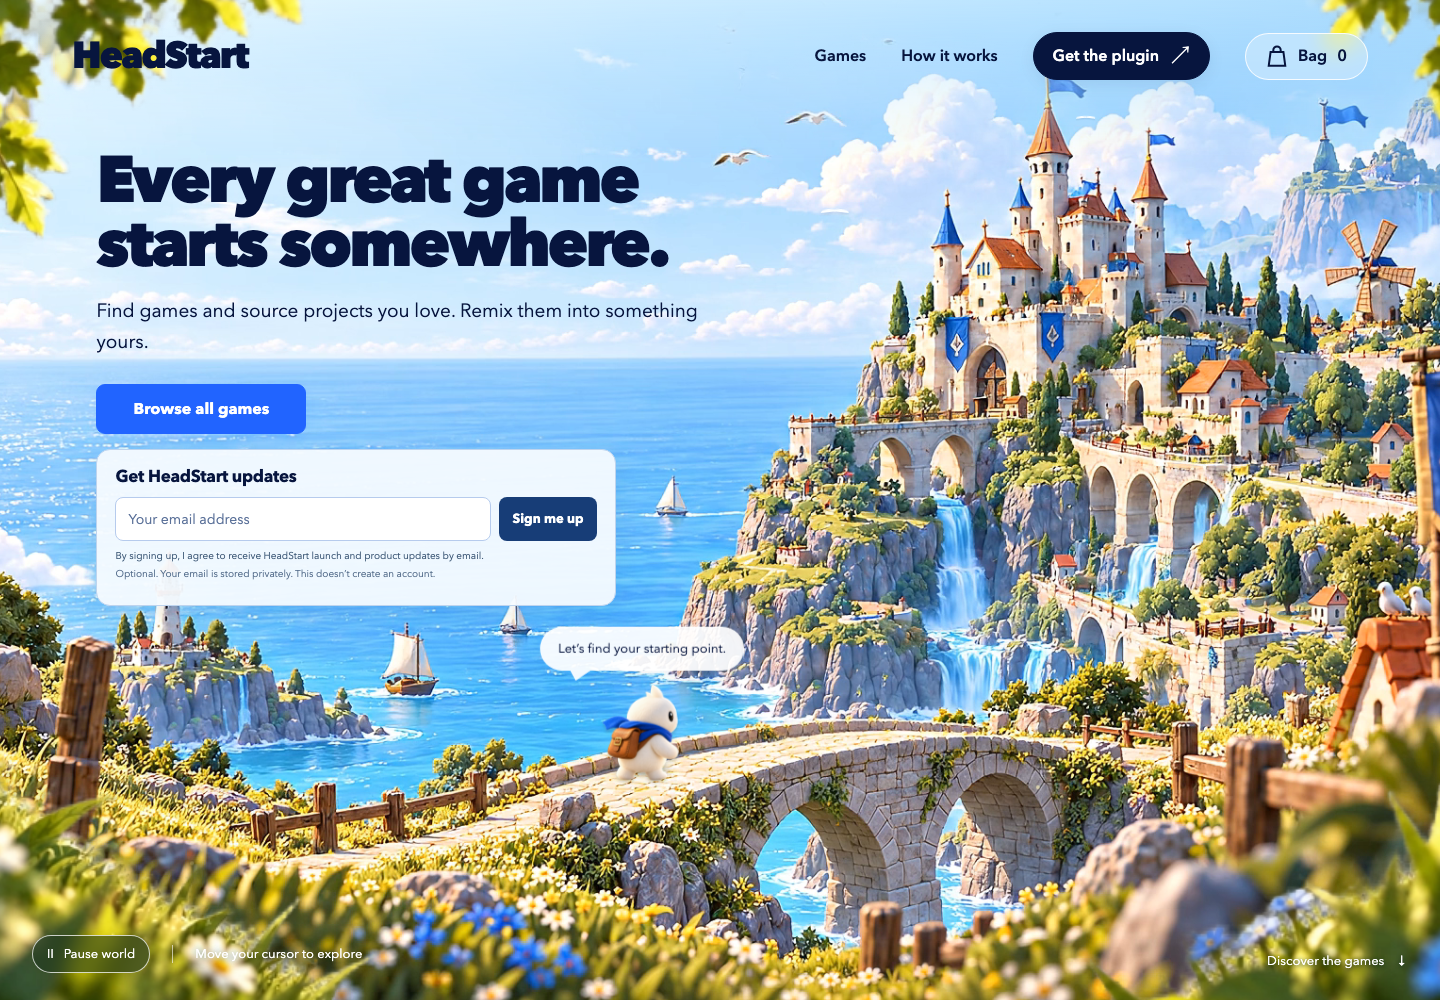
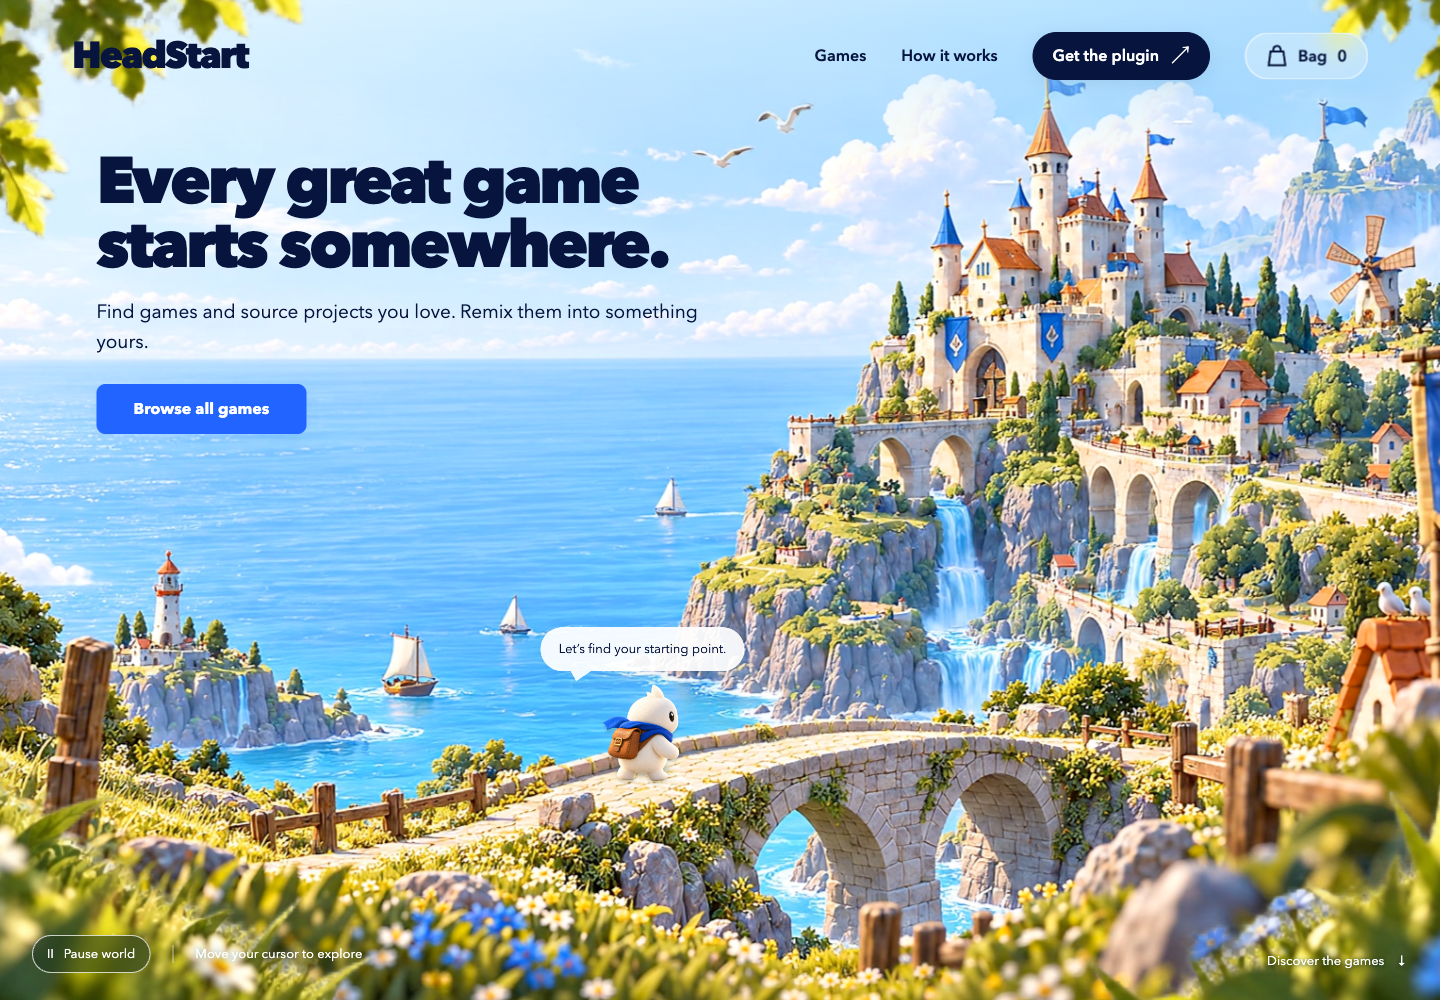
Record hero and remembered email review

diff --git a/docs/reviews/hero-discovery-cleanup/REVIEW.md b/docs/reviews/hero-discovery-cleanup/REVIEW.md
@@ -1,0 +1,66 @@
+# Hero discovery cleanup and remembered email — independent review
+
+## Review identity and revision
+
+- Issue contract: `docs/planning/hero-discovery-cleanup.md`
+- Coder/author: `/root/hero_search_author`
+- Critical reviewer: `/root/hero_email_reviewer` (independent from the author)
+- Reviewed implementation source revision: `914e0a0` (`Harden combined hero and demo email flow`)
+- Author handoff revision: `508b91c`
+- Repository HEAD during final checks: `a5587b936857201ddaae39d4586c869608a9503e` (later deployment-documentation commits do not alter the reviewed implementation files)
+
+The reviewer inspected the implementation and tests rather than relying on the author summary. The source hashes at final review were:
+
[7 lines of base64/hex data omitted]
+
+Unrelated supplied media, walkthrough work and the root README remained outside this review.
+
+## Acceptance coverage
+
+| Acceptance criterion | Independent evidence | Result |
+| --- | --- | --- |
+| Remove the nonfunctional hero prompt, mapping, idea strip and edit path | Actual HTML/JS/CSS inspection and focused static regression test; the rendered hero contains only `Browse all games` as its primary discovery CTA and has no homepage signup | PASS |
+| Browse CTA reaches the real catalog accessibly | Browser activation focused `#library-title`; after smooth scrolling it was 62 px from the viewport top | PASS |
+| Real catalog search and reset remain functional | Browser query `zzzz-no-match` produced `0 of 69 projects`, the visible empty state and zero cards; reset restored `69 of 69 projects` and 69 cards | PASS |
+| Bag, remix brief, Gauntlet export and Astra continuation remain | Browser selected CityMaker, Hollowflux and Kyoto Higashiyama, persisted the three IDs and the brief `A coastal builder with racing and mysterious ruins.`, regenerated the Gauntlet prompt, and enabled Download and Continue with Astra; formatter and Astra unit suites also passed | PASS |
+| Remember only after a successful demo save | Browser-mocked successful `/api/subscribe` stored normalized `reviewer@test.example` under `headstart.remembered-email.v1`; a server rejection left storage empty, retained input, kept the form visible and kept launch hidden | PASS |
+| Later demos bypass the prompt without URL rewriting | After success, a second demo click reached the normal-link path without the signup listener preventing it, left the dialog closed, and retained the exact `https://tideglass-drowned-vein.openai.chatgpt.site/` URL | PASS |
+| Remembered state is visible and can be forgotten | Reload displayed the address plus “isn’t an account or verified address” in the footer; Forget email removed the record, hid the panel and announced the change through its live region | PASS |
+| Failure, timeout, corrupt and blocked storage fail safely | Live rejection and corrupt-record reload were exercised in Chrome; corrupt data did not unlock demos. Focused client tests cover timeout and unavailable storage, including current-page use after a confirmed server save without falsely claiming cross-reload persistence | PASS |
+| No implied marketing consent | The real fresh dialog request sent `updates: false`; tests independently cover `updates: true` only after the checkbox is explicitly selected. No homepage updates form remains | PASS |
+| Responsive C4/C4b presentation and accessibility | Fresh current captures at 1440×1000, 390×844 and 320×844 were visually inspected. Browser measurements gave `scrollWidth === innerWidth` at 390 and 320. Hero copy, CTA, controls, companion, bridge, header and art crop do not overlap or clip; the 320 heading wraps intentionally. Focus styling and motion control remain present | PASS |
+| No page console or build errors | Puppeteer evaluation output reported no console errors during the exercised states; syntax, test, build and diff checks passed | PASS |
+
+## Commands and outcomes
+
+- `node --test tools/site/hero-cleanup.test.mjs tools/signup/client.test.mjs tools/signup/subscribe.test.mjs HeadStart-Starter-Package/site/dist/astra-action.test.mjs` — **26/26 passed**.
+- `node tools/bag-prompt/test_gauntlet_prompt.js` — **6/6 passed**.
+- `node --check` for `app.js`, `signup.js`, and `astra-action.js` — passed.
+- `node build.mjs` from `HeadStart-Starter-Package/site/dist` — passed with no output or error.
+- `git diff --check` — passed.
[1 lines of base64/hex data omitted]
+
+## Visual evidence
+
[3 lines of base64/hex data omitted]
+- `evidence/footer-remembered.png` — a live remembered-email footer state showing the normalized address, unverified-language boundary and visible Forget email action.
+
+The captures preserve the selected C4/C4b living-world hierarchy and C5 responsive intent. The missing hero form and homepage signup are intentional current-user deviations. The simplified desktop hero gains useful open space; on mobile the header remains a compact two-row layout, the CTA is dominant, and the castle/bridge/companion remain legible below it. No blocking visual deviation was found.
+
+## Review rounds and findings
+
+The first inspection was invalidated when concurrent Astra/footer work created conflicts in the shared checkout. Review stopped immediately without editing product files. After the author reconciled at `914e0a0`, all screenshots and browser evidence were regenerated from the combined implementation. No blocking findings remain in the final round.
+
+## Final verdict
+
+**PASS** — both requested outcomes and the combined no-homepage-signup/Astra direction are implemented and independently verified at the source hashes above.
+
+Known nonblocking limit: remembered email is intentionally a convenience for the same browser profile. It is not cross-device identity, verification, an account, or authorization for protected source/code handoffs.
